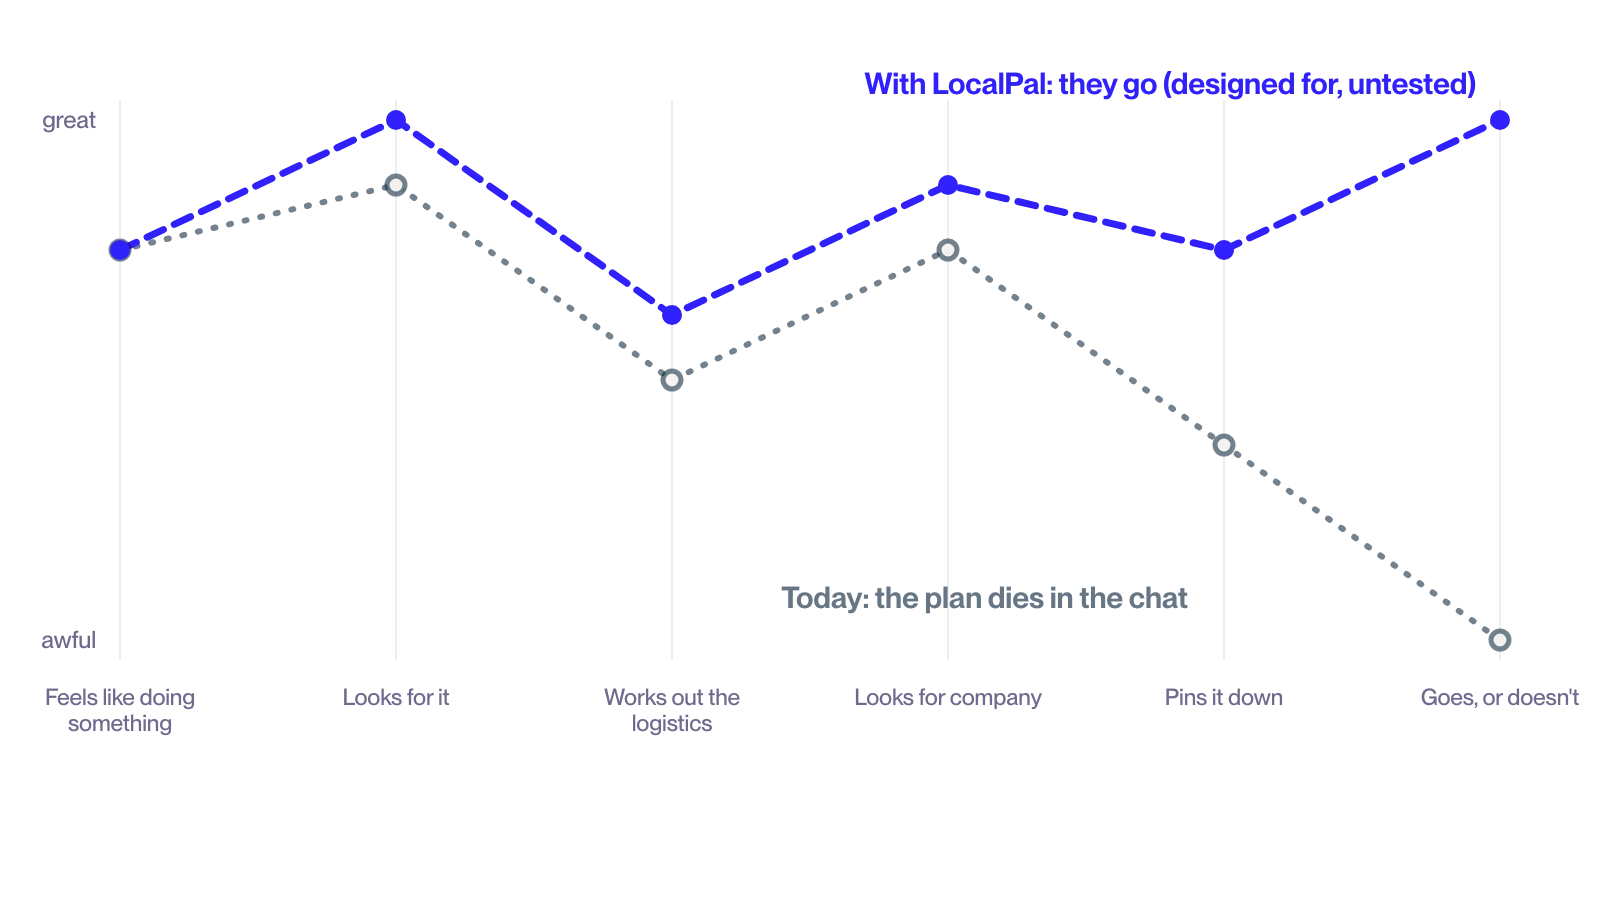
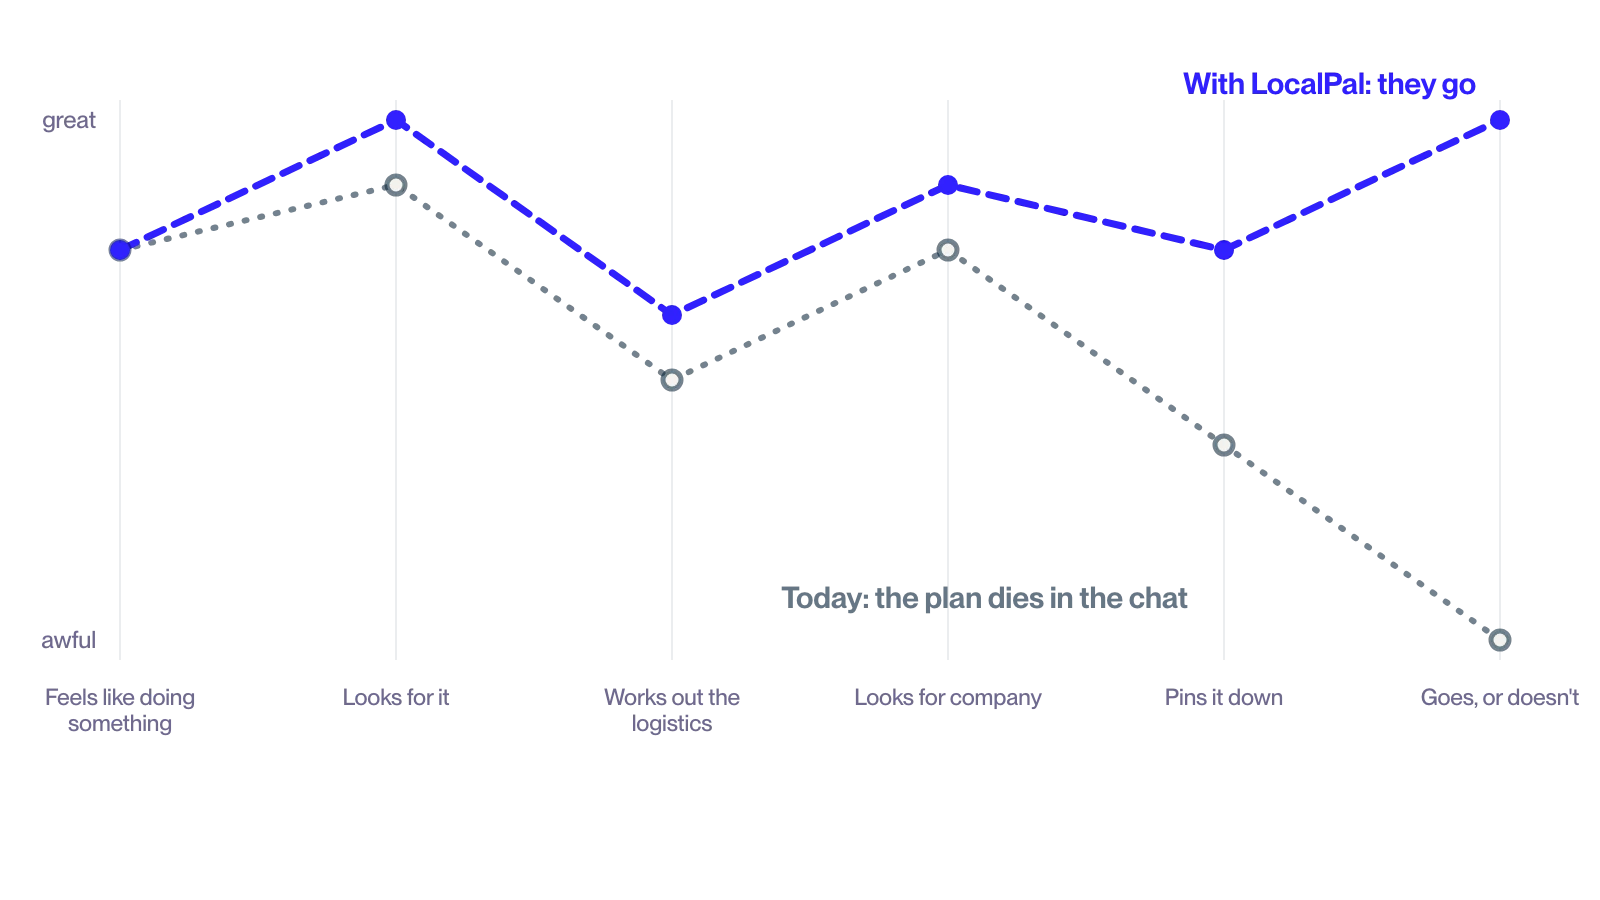
Project pages: the copy, round three of the recruiters
Recruiters scored 7.25, 7 and 7.25. LocalPal: hook and what-it-is in
one opening, the curve in plain words, Reddit numbers that match,
fewer disclaimers on the charts, short labels, a closing line that
doesn't contradict 'designed, not built'. Convertr: the AI question
made concrete and answered by Learnings, no one-item list, the intro
says there's no second screen. Camper: 'Here's one' right above its
row, the learning quotes the tagline, plainer words.

Changed region(s): [[0.5312, 0.0622, 0.9375, 0.1244]]

diff --git a/apps/web/src/content/projects/localpal.ts b/apps/web/src/content/projects/localpal.ts
@@ -100,11 +100,7 @@ export const localpal: Project = {
       blocks: [
         {
           type: "lede",
-          text: "Around week nine in a new city, the welcome runs out and people want something specific. Nothing serves that moment. LocalPal is built for it.",
-        },
-        {
-          type: "p",
-          text: "A map of the small plans, a climbing session, a running club, the gallery opening nobody posts about, and the people going.",
+          text: "Around week nine in a new city, the welcome runs out and people want something specific. LocalPal is a map of the small plans — a climbing session, a running club, the gallery opening nobody posts about — and the people going.",
         },
       ],
     },
@@ -115,7 +111,7 @@ export const localpal: Project = {
       blocks: [
         {
           type: "p",
-          text: "Young adults are going out differently: fewer clubs, more running clubs, more small plans with a handful of people.",
+          text: "Going out is changing:",
         },
         {
           type: "figure",
@@ -151,7 +147,7 @@ export const localpal: Project = {
       blocks: [
         {
           type: "p",
-          text: "First I read thousands of Reddit posts to learn what to ask. Then six long interviews with people who had just moved abroad, about the last time they did something.",
+          text: "First I read hundreds of Reddit posts from people who had just moved, to learn what to ask. Then six long interviews about the last plan they actually went to.",
         },
         {
           type: "bento",
@@ -175,19 +171,15 @@ export const localpal: Project = {
         },
         {
           type: "p",
-          text: "I call it the relevance curve. So LocalPal has to get you in week one and still matter in week nine.",
+          text: "I call it the relevance curve: people sign up in week one but need it most in week nine. LocalPal has to catch them early and still matter later.",
         },
       ],
     },
     {
       id: "concept",
       label: "Concept",
-      heading: "Plans and people on the same map",
+      heading: "Five rules from apps that failed",
       blocks: [
-        {
-          type: "p",
-          text: "Five rules, each learned from an app that failed:",
-        },
         {
           type: "list",
           style: "numbered",
@@ -195,7 +187,7 @@ export const localpal: Project = {
             { title: "Venues fill the map.", body: "So it's never empty on day one." },
             { title: "Anyone can propose a plan.", body: "No organiser deciding who gets in." },
             { title: "Groups, never one-to-one.", body: "So it can't turn into a dating app." },
-            { title: "Verifying means you'll show up.", body: "A uni email or a QR at an event, never a bank-style check." },
+            { title: "Verified means you'll show up.", body: "A uni email or a QR at an event, never a bank-style check." },
             { title: "Free between people.", body: "Money only where it's already normal: a ticket, a gym." },
           ],
         },
@@ -213,6 +205,10 @@ export const localpal: Project = {
           ],
         },
         {
+          type: "p",
+          text: "Today the plan dies in the group chat. With LocalPal, he goes.",
+        },
+        {
           type: "figure",
           figure: {
             kind: "image",
@@ -228,7 +224,7 @@ export const localpal: Project = {
       id: "brand",
       label: "Brand",
       heading:
-        "Soft, a bit tilted, link blue",
+        "Friendly, playful, link blue",
       blocks: [
         {
           type: "p",
@@ -251,8 +247,8 @@ export const localpal: Project = {
           type: "bento",
           row: 1,
           cells: [
-            { ...bare(6, 4, "ds-press", 4 / 3, "#f0f3fd", "A tile pressed: it squishes and springs back."), label: "You touch it: it springs" },
-            { ...bare(6, 4, "ds-inform", 4 / 3, "#f0f3fd", "A progress line filling, calm, with no bounce at all."), label: "The system reports: it never bounces" },
+            { ...bare(6, 4, "ds-press", 4 / 3, "#f0f3fd", "A tile pressed: it squishes and springs back."), label: "Tap" },
+            { ...bare(6, 4, "ds-inform", 4 / 3, "#f0f3fd", "A progress line filling, calm, with no bounce at all."), label: "Loading" },
             drawing(12, 5, "fig-brand-colours", 16 / 9, "The colours: the brand blue, its deep and pressed shades, lavender and ink; and the map, inverted: land, water, park, road."),
           ],
         },
@@ -305,7 +301,7 @@ export const localpal: Project = {
         { type: "subhead", text: "04 · Showing up" },
         {
           type: "p",
-          text: "Verify with a uni email when you want in. On the day, slide to confirm and see who else did.",
+          text: "Verify with a uni email to join plans. On the day, slide to confirm and see who else did.",
         },
         {
           type: "bento",
@@ -315,10 +311,10 @@ export const localpal: Project = {
             bare(7, 8, "rsvp", 900 / 1126, "#eee8df", "Dragging the knob across: the chevron turns into a check, the countdown lands, and the list of people on their way opens."),
           ],
         },
-        { type: "subhead", text: "05 · Onboarding you play" },
+        { type: "subhead", text: "05 · Sign-up as a game" },
         {
           type: "p",
-          text: "Pick interests as bubbles; each drops a sticker on your profile. Then the camera flies out of the toy city into the real map.",
+          text: "Pick interests as bubbles; each drops a sticker on your profile. Then the camera flies out of the cartoon city into the real map.",
         },
         {
           type: "bento",
@@ -343,6 +339,7 @@ export const localpal: Project = {
             alt: "The loop: week one, sign up through the university or ESN; the map, venues from day one; join a plan, a group; go, confirm on the day; check in, did you go; again, want to go again tunes the map. In the middle: week nine, the map already knows what you like. From the service blueprint, not built in the prototype.",
           },
         },
+        { type: "subhead", text: "07 · Small things" },
         {
           type: "bento",
           row: 1,
@@ -375,7 +372,7 @@ export const localpal: Project = {
     {
       id: "try",
       label: "Try it",
-      heading: "Everything you've seen is real, go try it",
+      heading: "It's live. Go try it",
       blocks: [
         {
           type: "figure",

diff --git a/apps/web/src/content/projects/convertr.ts b/apps/web/src/content/projects/convertr.ts
@@ -30,10 +30,6 @@ export const convertr: Project = {
     "A desktop app that turns any video into the GIF or file you need. Drop it, trim it, drag the result out. I designed and built it, and the real app runs on this page.",
   meta: [
     { label: "Type", value: "Side project · spring 2026" },
-    {
-      label: "Fields",
-      value: "Product design, interaction design, desktop, build",
-    },
     { label: "Role", value: "Design and build" },
     { label: "Stack", value: "Solid.js, Electron, FFmpeg, yt-dlp" },
     // Draft, a guess; Julio to correct.
@@ -58,11 +54,11 @@ export const convertr: Project = {
       blocks: [
         {
           type: "p",
-          text: "Every week I turned clips into GIFs for moodboards. Online tools gave me no control, and Premiere turned a ten-second job into a project. So I built my own. [fill in — I've run N files through it since June.]",
+          text: "Every week I turned clips into GIFs for moodboards. Online tools gave me no control, and Adobe Premiere turned a ten-second job into a project. So I built my own. [fill in — I've run N files through it since June.]",
         },
         {
           type: "p",
-          text: "It was also my first app built with AI, and a test: does an odd design idea last longer when the designer writes the code?",
+          text: "It was also my first app built with AI, and a test: if the designer writes the code, does the weird idea survive?",
         },
       ],
     },
@@ -74,7 +70,7 @@ export const convertr: Project = {
       blocks: [
         {
           type: "p",
-          text: "The whole app is one box. Empty, it cycles through the shapes a video can have. Drop a file and it becomes the video.",
+          text: "The whole app is one box. No settings page, no results page. Empty, it cycles through the shapes a video can have; drop a file and it becomes the video.",
         },
         {
           type: "bento",
@@ -122,27 +118,13 @@ export const convertr: Project = {
             },
           ],
         },
-        {
-          type: "p",
-          text: "Nothing pops in or slides over. There's no settings page and no results page: every screen is the same box changing shape.",
-        },
       ],
     },
     {
       id: "details",
       label: "Details",
-      heading: "The small things it does",
+      heading: "The small things",
       blocks: [
-        {
-          type: "list",
-          style: "bulleted",
-          items: [
-            {
-              title: "Three ways in.",
-              body: "Drop a file, paste a video, or paste a YouTube or X link.",
-            },
-          ],
-        },
         {
           type: "bento",
           row: 0.5,
@@ -151,6 +133,7 @@ export const convertr: Project = {
               kind: "slot",
               w: 6,
               h: 7,
+              label: "Three ways in: drop it, paste it, or paste a link",
               need: "Pasting an X link in the desktop app: yt-dlp fetches it and it lands in the box like a file.",
             },
             { ...cell(6, 7, cv("format", "The format picker opening, the cursor running down the list, GIF picked", 1200 / 660, { frame: "bare" })), label: "Seven formats, one picker" },
@@ -162,15 +145,15 @@ export const convertr: Project = {
     {
       id: "learnings",
       label: "Learnings",
-      heading: "The box only survived because I was also the one building it",
+      heading: "Writing the code kept the idea alive",
       blocks: [
         {
           type: "p",
-          text: "If I did it again I'd build the fake converter first, the one running on this page, so every idea could be tried in seconds.",
+          text: "Nobody could quietly turn the box back into a normal layout. Half the feel came from tweaking timings while watching it move, and none of that was in the design file.",
         },
         {
           type: "p",
-          text: "Because I wrote the code, nobody could quietly turn the box back into a normal layout. Half the feel came from tweaking timings while watching it move, and none of that was in the design file.",
+          text: "Next time I'd build the pretend version first, so every idea could be tried in seconds.",
         },
       ],
     },

diff --git a/apps/web/src/content/projects/camper.ts b/apps/web/src/content/projects/camper.ts
@@ -26,7 +26,7 @@ export const camper: Project = {
   summary:
     "An unofficial one-minute ad for Camper, made entirely with AI.",
   meta: [
-    { label: "Type", value: "Unofficial ad, made at 2894 Studio · 2026" },
+    { label: "Type", value: "Unofficial ad, made solo at 2894 Studio · 2026" },
     {
       label: "Fields",
       value: "Concept, art direction, AI image and video generation, edit",
@@ -52,7 +52,7 @@ export const camper: Project = {
       blocks: [
         {
           type: "p",
-          text: "The premise: everyone wears Camper. The film cuts between people who'd never share a frame, and the only constant is their shoes. Three rules:",
+          text: "Everyone wears Camper. The film cuts between people who'd never share a frame. Only the shoes stay the same. Three rules:",
         },
         {
           type: "list",
@@ -60,7 +60,7 @@ export const camper: Project = {
           items: [
             { title: "Shin height.", body: "Always, so the shoes lead." },
             { title: "No faces.", body: "So no one is the star." },
-            { title: "One afternoon.", body: "The same light and grain in every shot, like 35mm." },
+            { title: "One afternoon.", body: "The same light and grain in every shot, like it was all shot on old film." },
           ],
         },
         {
@@ -86,7 +86,7 @@ export const camper: Project = {
               w: 12,
               h: 7,
               plain: true,
-              label: "Every shot, in order: same height, no faces, one afternoon",
+              label: "Every shot, in order. Check the rules",
               frame: "bare",
               fit: "contain",
               src: "/media/camper/every-shot.webp",
@@ -104,19 +104,12 @@ export const camper: Project = {
       blocks: [
         {
           type: "p",
-          text: "Storyboard first, so every generation had a target. Each moment went from sketch, to still, to moving shot. Here's one:",
+          text: "I drew a storyboard first, so every AI image had a target. Each moment went from sketch, to still, to moving shot. Here's one:",
         },
         {
           type: "bento",
           cells: [
-            {
-              kind: "slot",
-              w: 12,
-              h: 2,
-              awaits: "photo",
-              need: "The whole storyboard in two or three rows, every frame in order: the film's structure at a glance.",
-            },
-          ],
+              ],
         },
         {
           // Board → still → shot, for one moment of the film: the velcro,
@@ -153,11 +146,18 @@ export const camper: Project = {
               aspect: 16 / 9,
               alt: "The shot: the same moment moving, the hand at the strap and the socked foot swinging beside the shoes",
             },
+        {
+              kind: "slot",
+              w: 12,
+              h: 2,
+              awaits: "photo",
+              need: "The whole storyboard in two or three rows, every frame in order: the film's structure at a glance.",
+            },
           ],
         },
         {
           type: "p",
-          text: "AI gives you a hundred believable people. The job is picking the one you'd pass on the street, in a shoe that's unmistakably Camper.",
+          text: "AI gives you a hundred believable people. The job is picking the one who looks like a stranger on your street, in a shoe that's unmistakably Camper.",
         },
         {
           // The choosing, made visible: the rejects for one person next
@@ -210,7 +210,7 @@ export const camper: Project = {
       blocks: [
         {
           type: "p",
-          text: "Every time a shot felt off, it was because I'd lost sight of the tagline, not because the AI got it wrong.",
+          text: "When a shot felt off, it was never the AI. I'd lost sight of “everyone is equal in their feet.”",
         },
         {
           type: "p",
